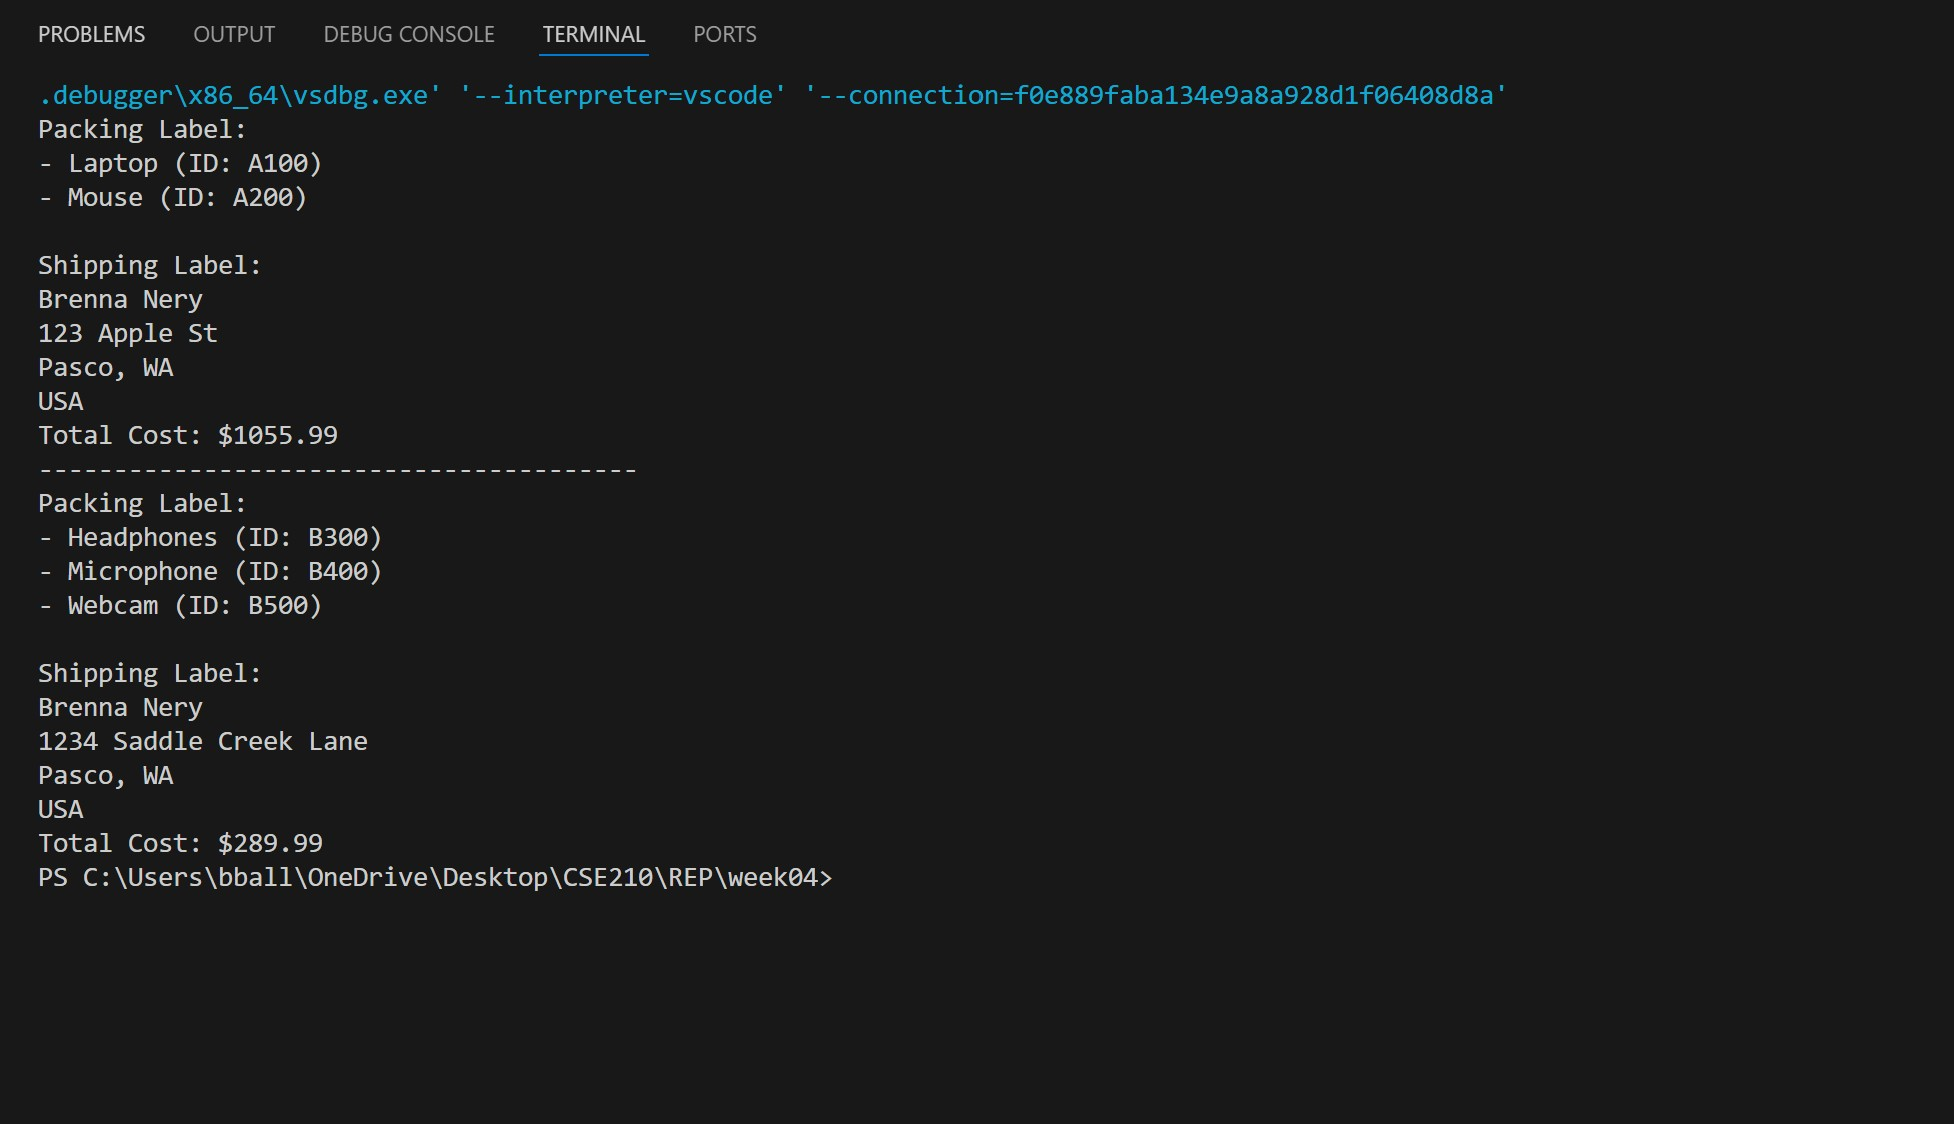
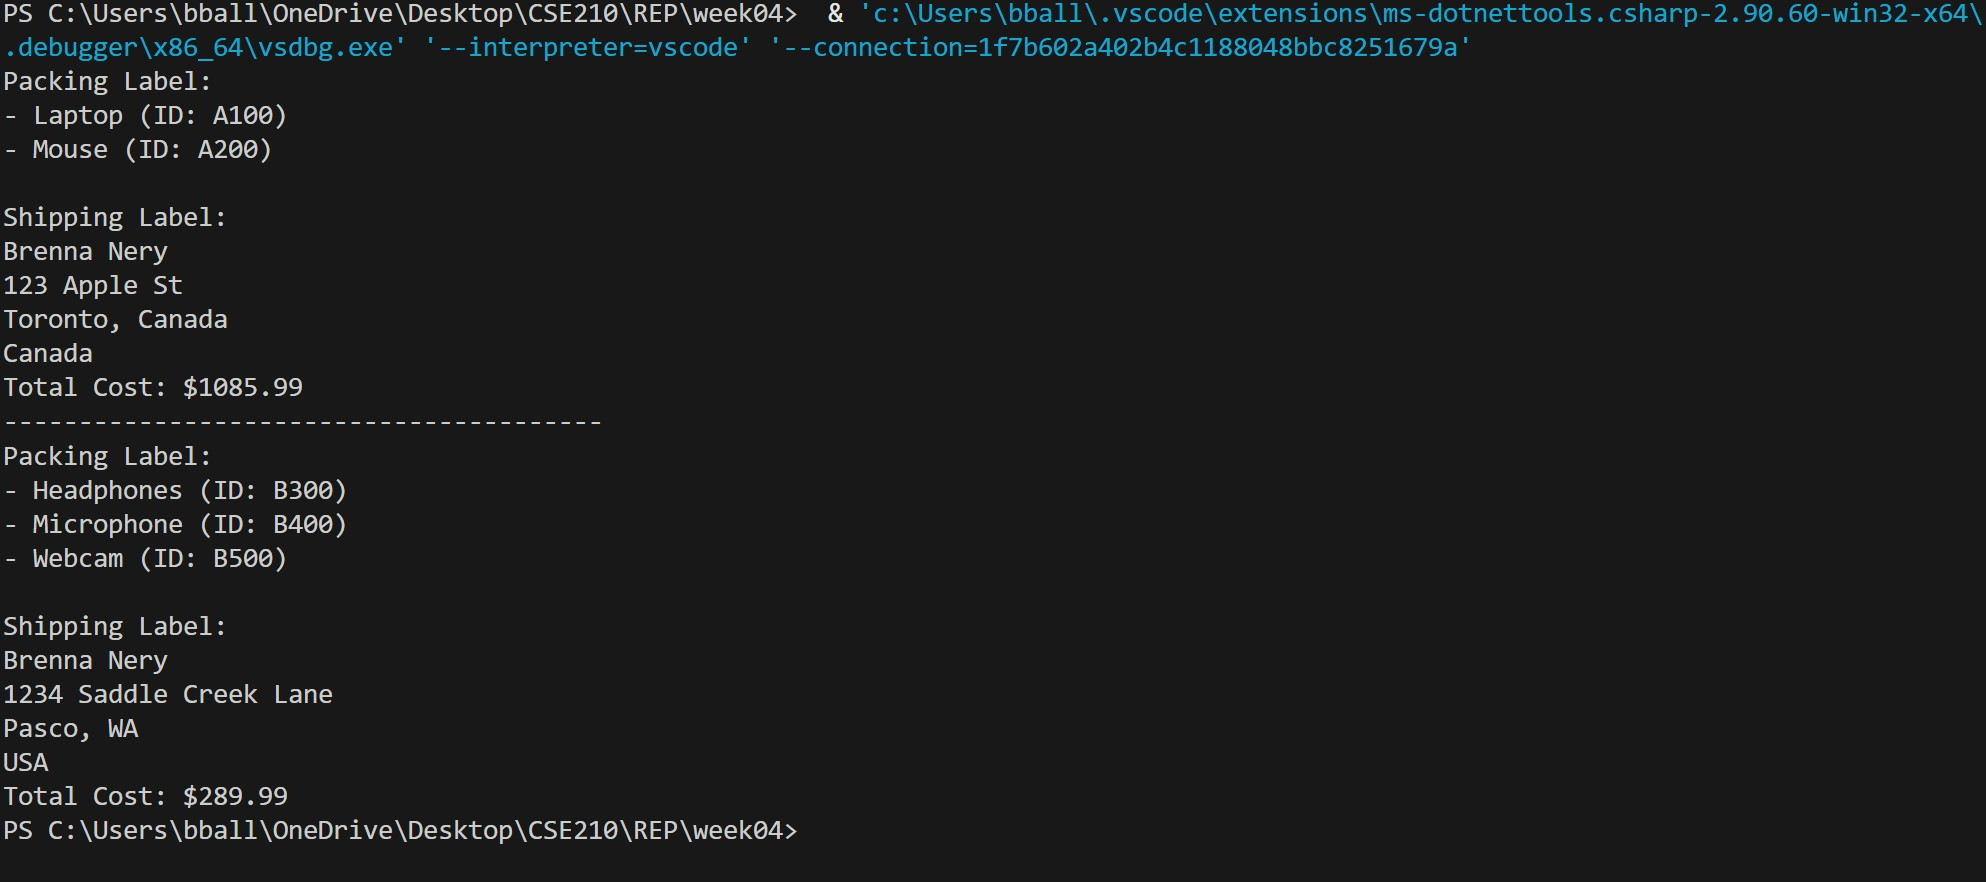
Change screenshot

Changed region(s): [[0.0, 0.2143, 0.4371, 0.949], [0.0, 0.0, 0.999, 0.1837]]

diff --git a/week04/OnlineOrdering/Program.cs b/week04/OnlineOrdering/Program.cs
@@ -5,7 +5,7 @@ class Program
     static void Main(string[] args)
     {
         // First customer and order (USA)
-        Address address1 = new Address("123 Apple St", "Pasco", "WA", "USA");
+        Address address1 = new Address("123 Apple St", "Toronto", "Canada", "Canada");
         Customer customer1 = new Customer("Brenna Nery", address1);
 
         Order order1 = new Order(customer1);
